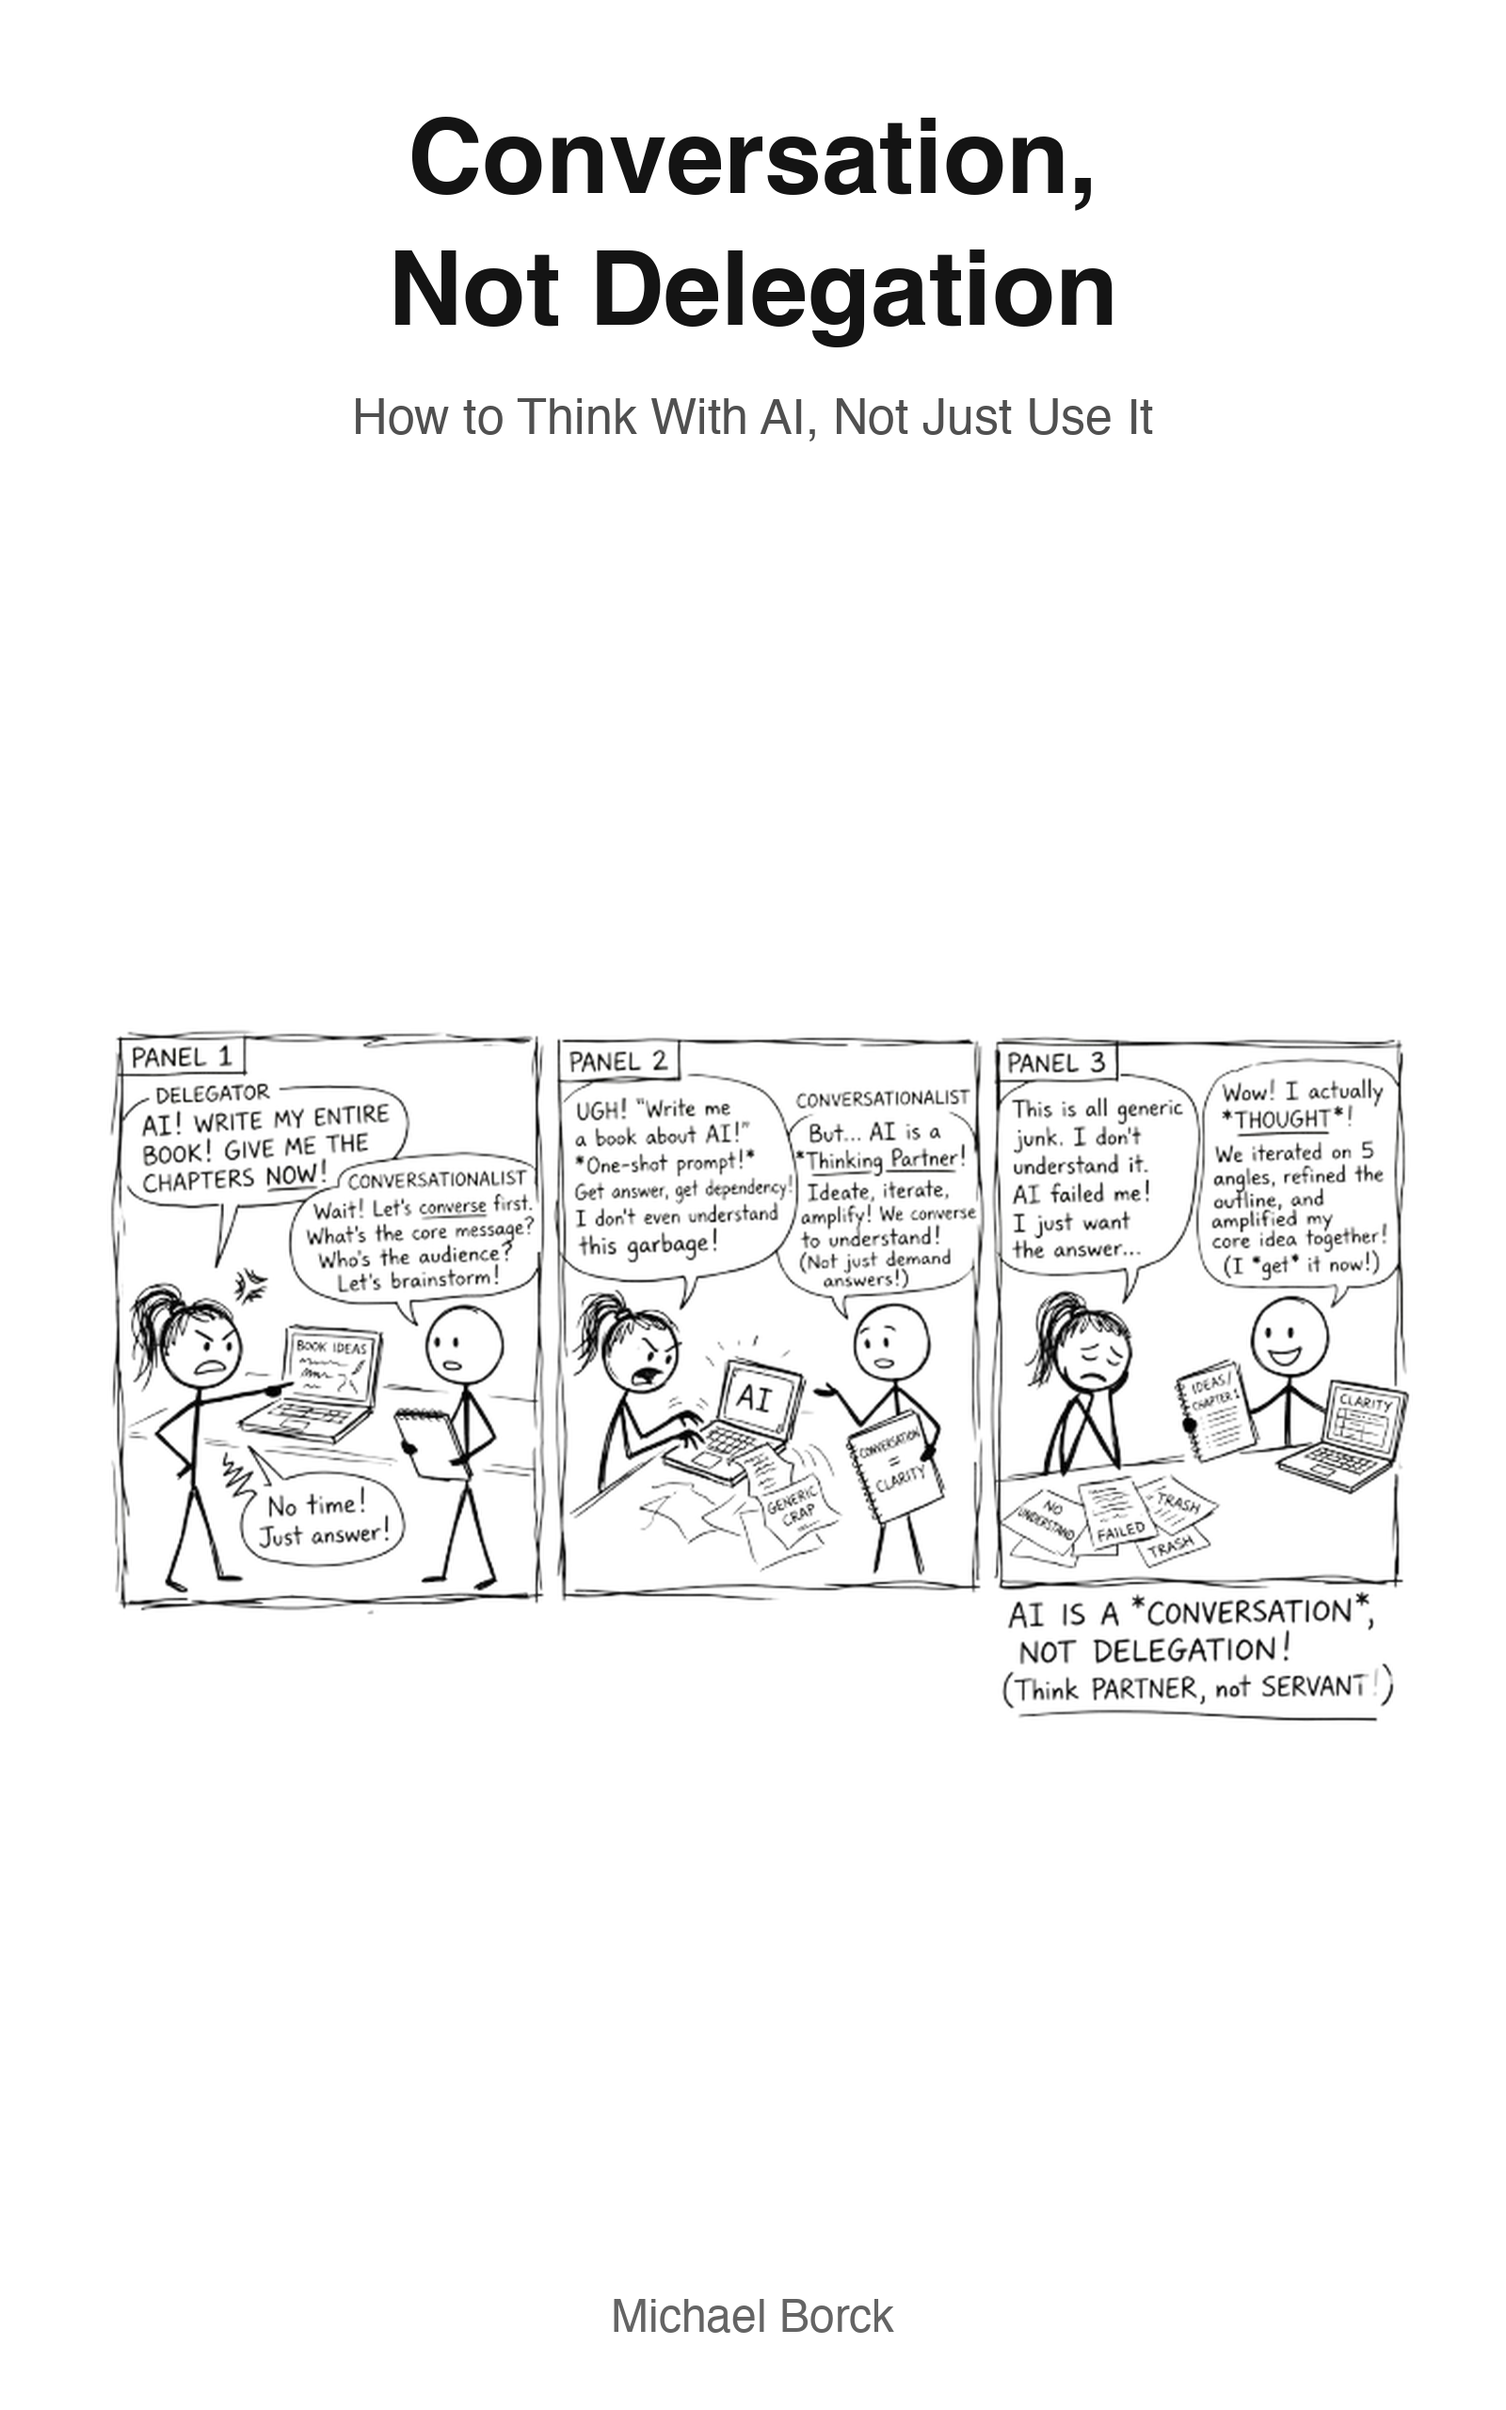
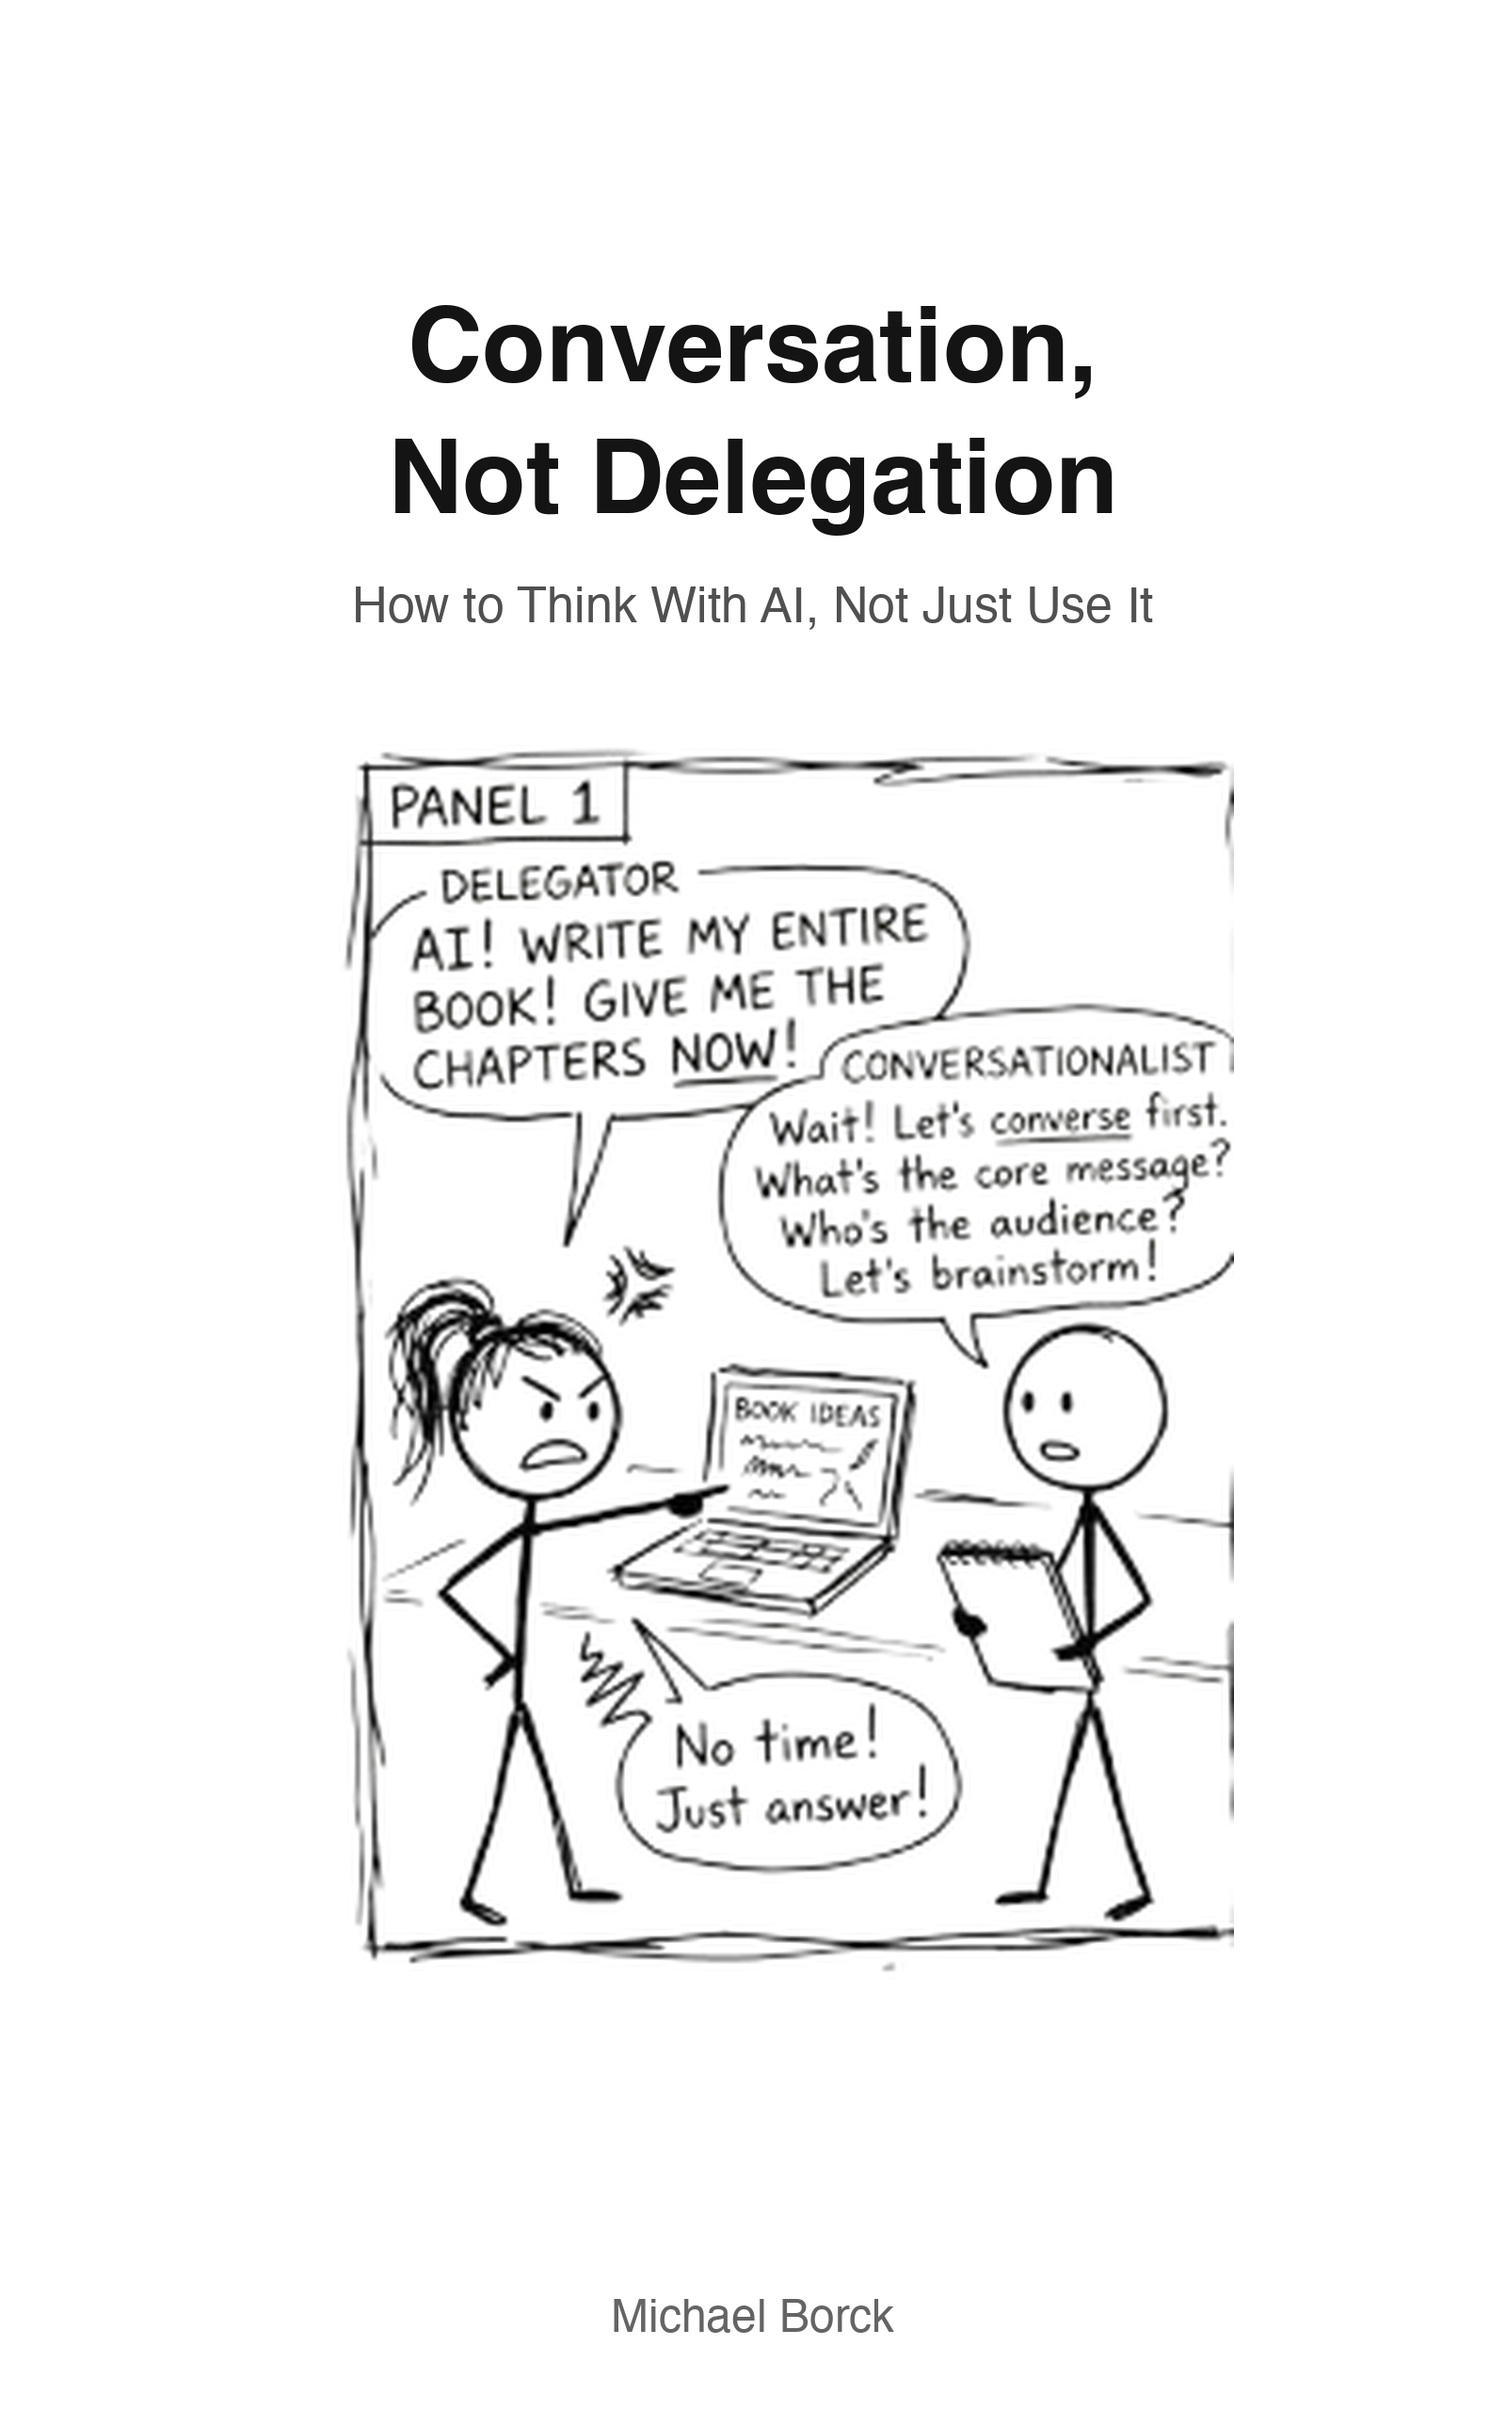
Use Panel 1 as cover hook, add full comic strip to About This Book
Crop Panel 1 (Delegator vs Conversationalist) for the cover — the
hook that draws readers in. Add full 3-panel comic strip to the
About This Book page so readers see the complete story and punchline.

diff --git a/tools/create_cover.py b/tools/create_cover.py
@@ -14,7 +14,7 @@ HEIGHT = 2560
 
 # Paths
 PROJECT_ROOT = Path(__file__).resolve().parent.parent
-COMIC_PATH = PROJECT_ROOT / "images" / "comic-strip" / "00-conversation-not-delegation.png"
+COMIC_PATH = PROJECT_ROOT / "images" / "comic-strip" / "00-panel1.png"
 OUTPUT_PATH = PROJECT_ROOT / "images" / "cover.png"
 
 # Colours
@@ -75,13 +75,13 @@ def main():
     line2 = "Not Delegation"
     l1x = (WIDTH - text_width(draw, line1, title_font_line1)) // 2
     l2x = (WIDTH - text_width(draw, line2, title_font_line2)) // 2
-    draw.text((l1x, 120), line1, fill=TITLE_COLOUR, font=title_font_line1)
-    draw.text((l2x, 260), line2, fill=TITLE_COLOUR, font=title_font_line2)
+    draw.text((l1x, 320), line1, fill=TITLE_COLOUR, font=title_font_line1)
+    draw.text((l2x, 460), line2, fill=TITLE_COLOUR, font=title_font_line2)
 
     # Subtitle
     subtitle = "How to Think With AI, Not Just Use It"
     sx = (WIDTH - text_width(draw, subtitle, subtitle_font)) // 2
-    draw.text((sx, 420), subtitle, fill=SUBTITLE_COLOUR, font=subtitle_font)
+    draw.text((sx, 620), subtitle, fill=SUBTITLE_COLOUR, font=subtitle_font)
 
     # Comic strip
     comic = Image.open(COMIC_PATH)
@@ -92,7 +92,7 @@ def main():
         comic = bg
 
     # Scale comic to fit width with padding, leaving room for title and author
-    top_margin = 540
+    top_margin = 720
     bottom_margin = 200
     max_comic_width = WIDTH - 160
     max_comic_height = HEIGHT - top_margin - bottom_margin
